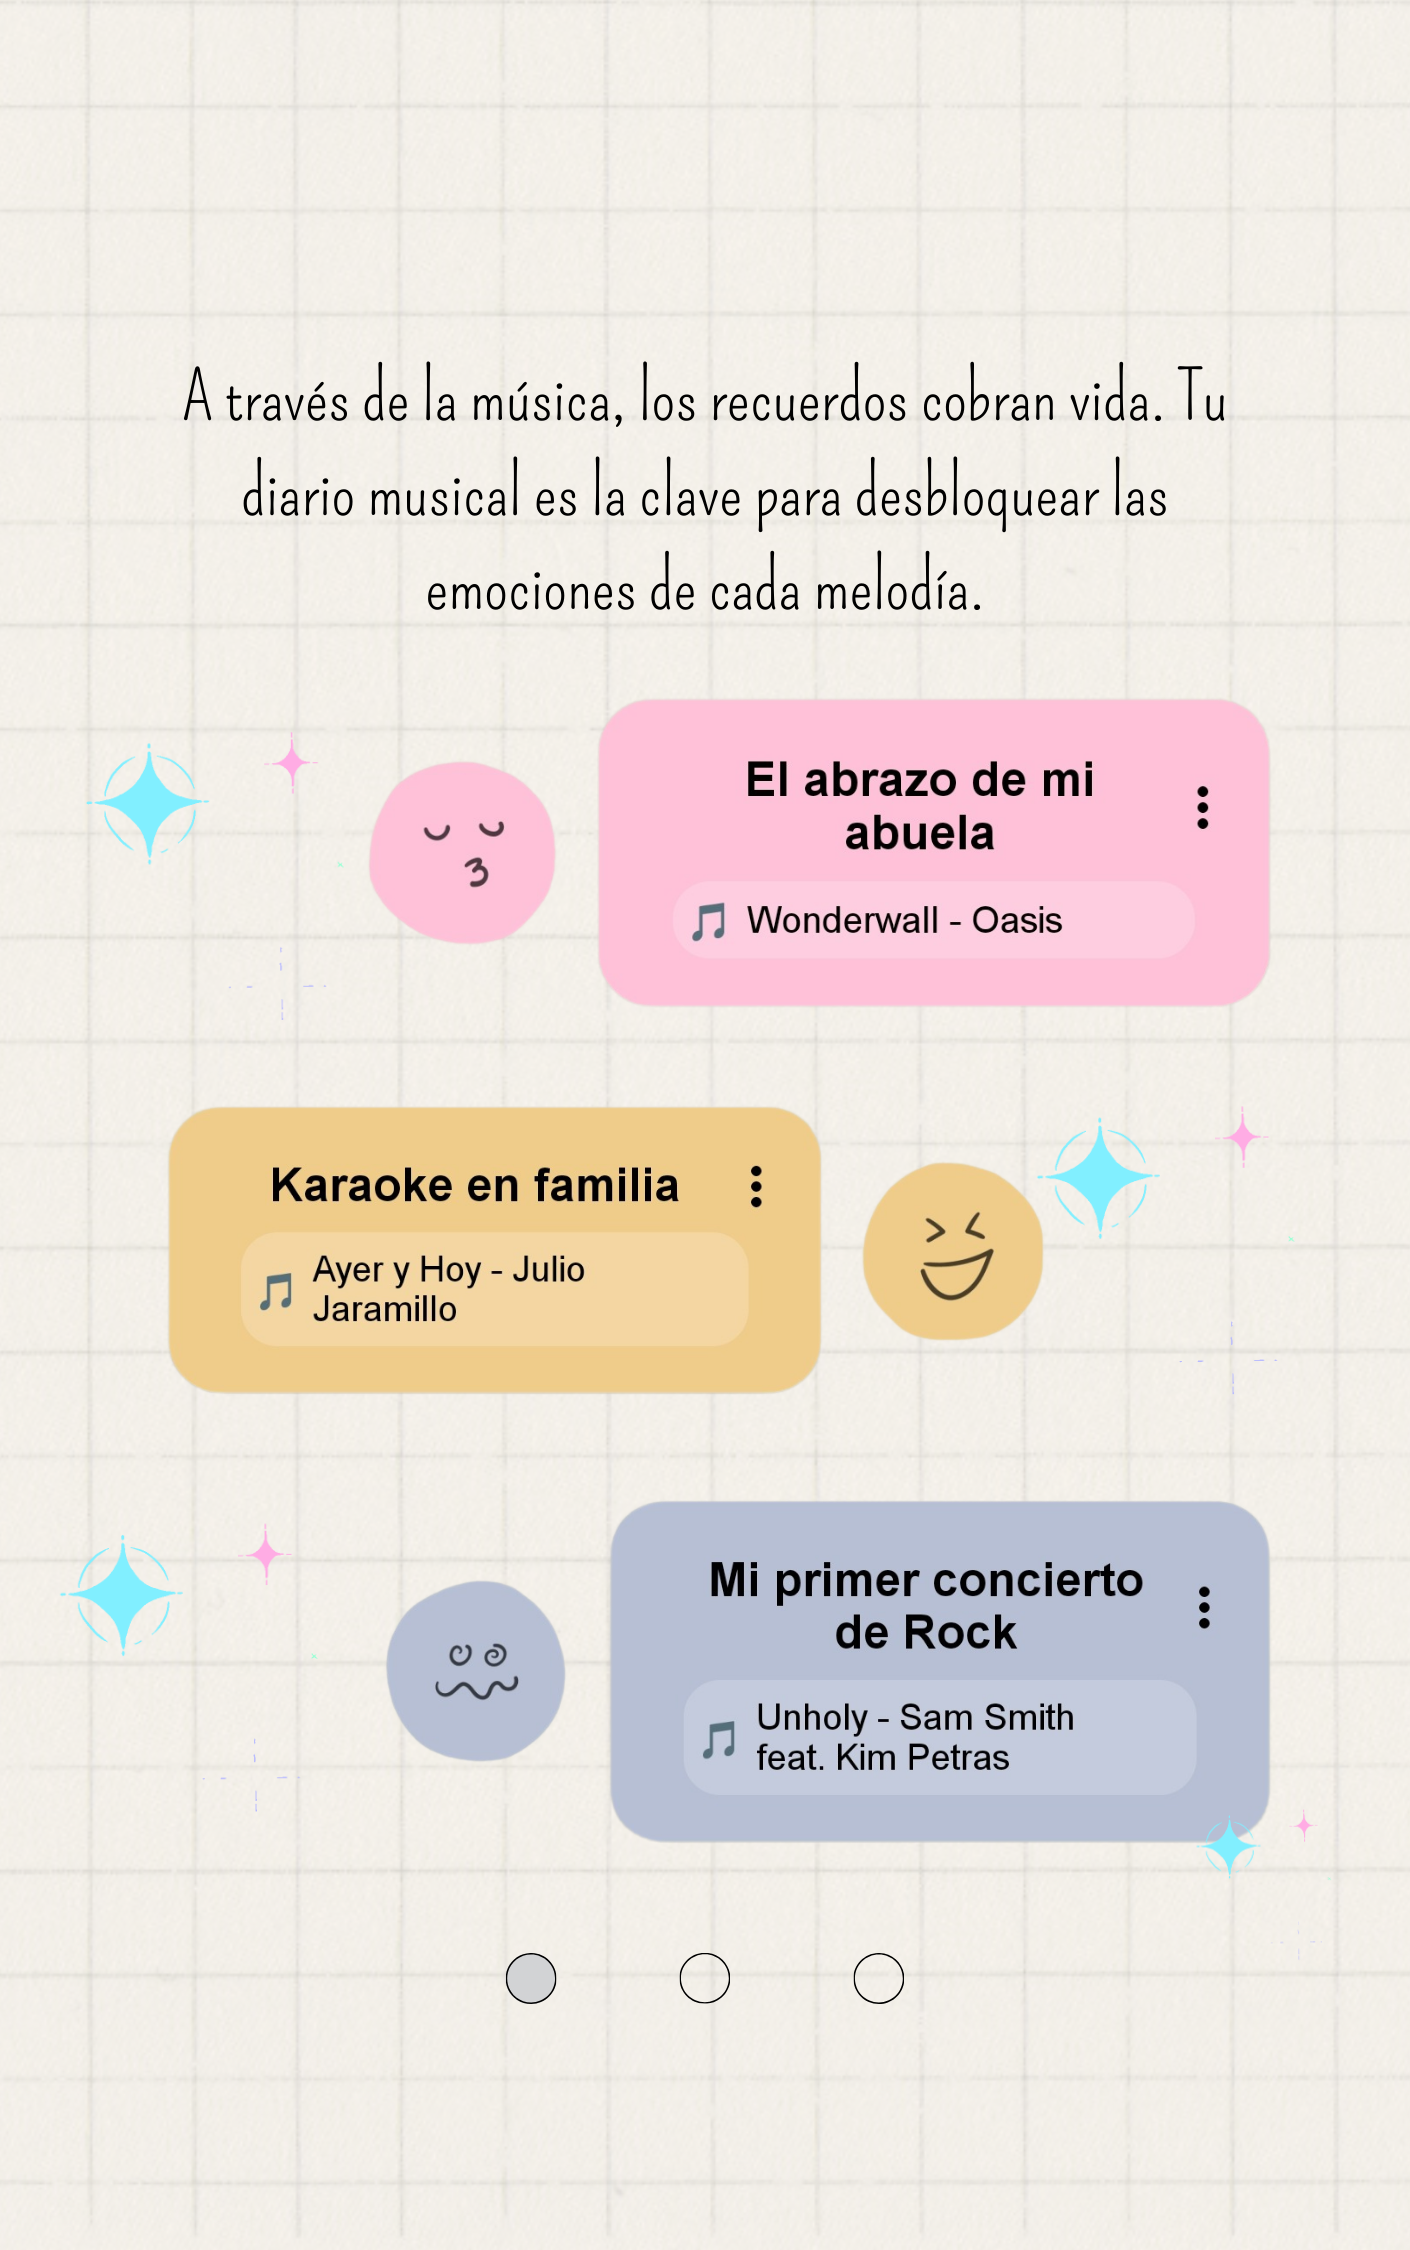
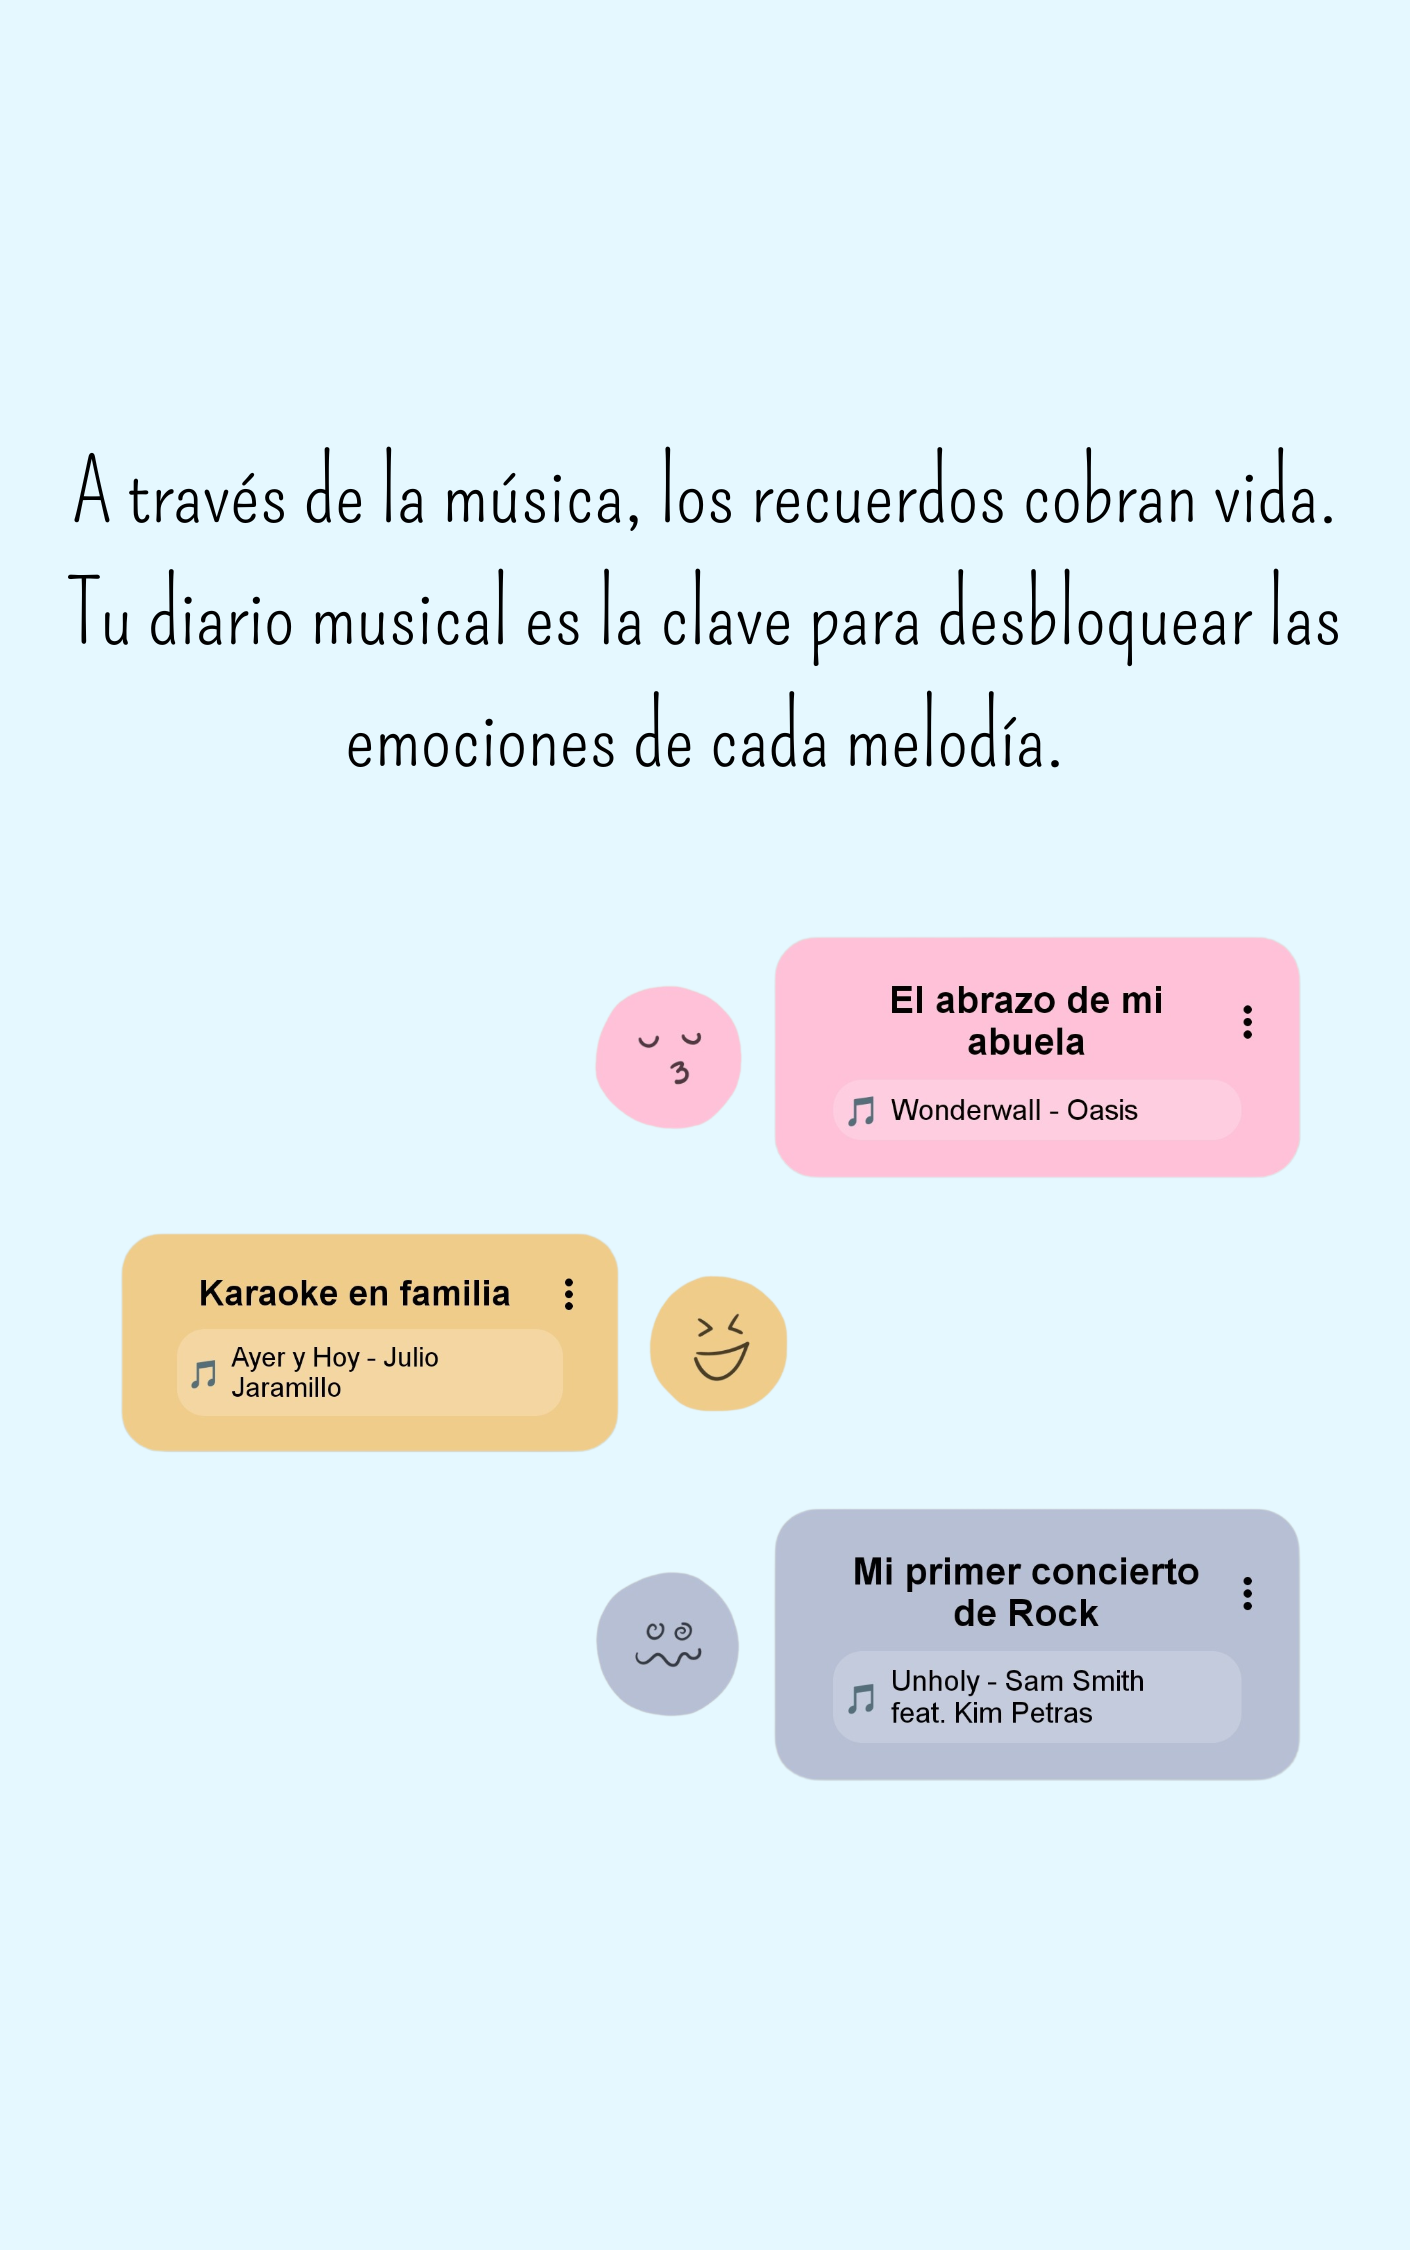
casigan viendo

diff --git a/src/components/Carousel.tsx b/src/components/Carousel.tsx
@@ -1,0 +1,110 @@
+import React, { useState } from 'react';
+import auth from '@react-native-firebase/auth';
+import { GoogleSignin } from '@react-native-google-signin/google-signin';
+import Authenticate from '../screens/Authenticate';
+import { useNavigation } from '@react-navigation/native';
+import { SafeAreaView, StyleSheet, View, Text, Image } from 'react-native';
+import AppIntroSlider from 'react-native-app-intro-slider';
+
+GoogleSignin.configure({
+  webClientId: '123136814804-9t4p6s2pui4a9mrsrb0v5pedjjtvgb17.apps.googleusercontent.com',
+});
+
+const Carousel = () => {
+  const navigation = useNavigation();
+
+  const [authenticated, setAuthenticated] = useState(false);
+
+  auth().onAuthStateChanged((user) => {
+    if (user) {
+      setAuthenticated(true);
+    } else {
+      setAuthenticated(false);
+    }
+  });
+
+  async function handleGoogleButtonPress() {
+    try {
+      const { idToken } = await GoogleSignin.signIn();
+      const googleCredential = auth.GoogleAuthProvider.credential(idToken);
+      await auth().signInWithCredential(googleCredential);
+      console.log('Logged in' + idToken);
+      console.log('sigan viendoooo');
+      console.log(auth().currentUser.uid);
+      console.log(auth().currentUser.displayName);
+      navigation.replace('Home');
+    } catch (error) {
+      console.log(error);
+    }
+  };
+
+  const RenderItem = ({ item }) => {
+    return (
+      <View style={{ flex: 1, backgroundColor: item.backgroundColor, alignItems: 'center' }}>
+        <Text style={styles.introTitleStyle}>{item.title}</Text>
+        <Image style={styles.introImageStyle} source={item.image} />
+        <Text style={styles.introTextStyle}>{item.text}</Text>
+      </View>
+    );
+  };
+
+  return (
+    <View style={styles.container}>
+      <AppIntroSlider
+        data={slides}
+        renderItem={RenderItem}
+        showSkipButton={true}
+        showNextButton={false}
+        showPrevButton={false}
+        showDoneButton={false}
+        showSkipButton={false}
+      />
+      <Authenticate authenticated={authenticated} handleGoogleButtonPress={handleGoogleButtonPress} />
+    </View>
+  );
+};
+
+const styles = StyleSheet.create({
+  container: {
+    flex: 1,
+    backgroundColor: '#fff',
+  },
+  introImageStyle: {
+    paddingTop: 100,
+    width: 380,
+    height: 600,
+  },
+  introTextStyle: {
+    fontSize: 18,
+    color: 'white',
+    textAlign: 'center',
+    paddingVertical: 30,
+  },
+  introTitleStyle: {
+    fontSize: 25,
+    color: 'white',
+    textAlign: 'center',
+    marginBottom: 16,
+    fontWeight: 'bold',
+  },
+});
+
+const slides = [
+  {
+    key: 's1',
+    image: require('../assets/carousel/Carrusel1.png'),
+    backgroundColor: '#E5F8FF',
+  },
+  {
+    key: 's2',
+    image: require('../assets/carousel/Carrusel2.png'),
+    backgroundColor: '#FFF8EC',
+  },
+  {
+    key: 's3',
+    image: require('../assets/carousel/Carrusel3.png'),
+    backgroundColor: '#B3FFED',
+  },
+];
+
+export default Carousel;

diff --git a/src/screens/Login.tsx b/src/screens/Login.tsx
@@ -1,14 +1,13 @@
 import React, { useState } from 'react';
-import { View } from 'react-native';
+import { View, StyleSheet } from 'react-native';
 import auth from '@react-native-firebase/auth';
 import { GoogleSignin } from '@react-native-google-signin/google-signin';
 import Authenticate from './Authenticate';
 import { useNavigation } from '@react-navigation/native';
-// Importar Authenticated si lo necesitas
+import Carousel from '../components/Carousel';
 
 const Login = (props) => {
-
-    const navigation = useNavigation();
+  const navigation = useNavigation();
 
   GoogleSignin.configure({
     webClientId: '123136814804-9t4p6s2pui4a9mrsrb0v5pedjjtvgb17.apps.googleusercontent.com',
@@ -29,22 +28,29 @@ const Login = (props) => {
       const { idToken } = await GoogleSignin.signIn();
       const googleCredential = auth.GoogleAuthProvider.credential(idToken);
       await auth().signInWithCredential(googleCredential);
-      console.log('Logged in'+idToken);
-      console.log("sigan viendoooo");
+      console.log('Logged in' + idToken);
+      console.log('sigan viendoooo');
       console.log(auth().currentUser.uid);
-      console.log(auth().currentUser.displayName); 
-        navigation.replace('Home');
+      console.log(auth().currentUser.displayName);
+      navigation.replace('Home');
     } catch (error) {
       console.log(error);
     }
   }
 
   return (
-    <View>
-      <Authenticate handleGoogleButtonPress={handleGoogleButtonPress} />
-      {/* Puedes agregar Authenticated aquí si es necesario */}
+    <View style={styles.container}>
+      <Carousel />
+      {/* <Authenticate authenticated={authenticated} handleGoogleButtonPress={handleGoogleButtonPress} /> */}
     </View>
   );
 };
+
+const styles = StyleSheet.create({
+  container: {
+    flex: 1,
+    justifyContent: 'center',
+  },
+});
 
 export default Login;

diff --git a/src/screens/Authenticate.tsx b/src/screens/Authenticate.tsx
@@ -1,24 +1,26 @@
 import React from 'react';
-import {StyleSheet, View, Text} from 'react-native';
-import {GoogleSigninButton} from '@react-native-google-signin/google-signin';
+import { StyleSheet, View } from 'react-native';
+import { GoogleSigninButton } from '@react-native-google-signin/google-signin';
 
 export default function Authenticate(props) {
   return (
-    <View style={styles.screen}>
-      <Text style={styles.title}>Google OAuth</Text>
-      <GoogleSigninButton onPress={props.handleGoogleButtonPress} />
+    <View style={styles.container}>
+      <GoogleSigninButton
+        style={styles.googleSignInButton}
+        onPress={props.handleGoogleButtonPress}
+      />
     </View>
   );
 }
+
 const styles = StyleSheet.create({
-  screen: {
-    display: 'flex',
+  container: {
     flex: 1,
-    justifyContent: 'center',
     alignItems: 'center',
+    justifyContent: 'center',
   },
-  title: {
-    fontSize: 25,
-    marginBottom: 30,
+  googleSignInButton: {
+    width: 192, // Ajusta el ancho según tus preferencias
+    height: 48, // Ajusta la altura según tus preferencias
   },
 });
